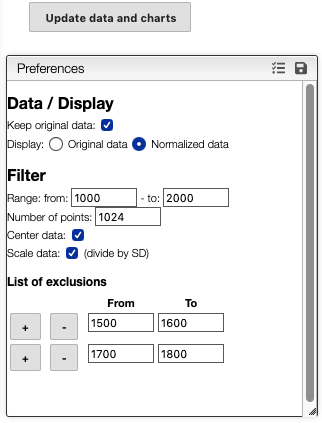
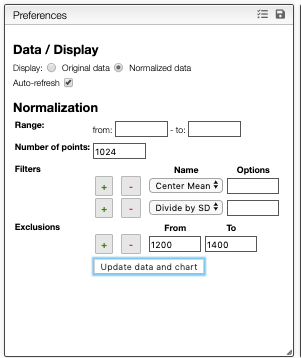
chore: update data processing documentation

diff --git a/src/book/spectra/mining/analysis/README.md b/src/book/spectra/mining/analysis/README.md
@@ -1,8 +1,9 @@
 # Create analytical report from spectra
 
-Thie program allows to define and apply analatical procedure on one or more spectra. The general principle is:
+This program allows to define and apply analytical procedure on one or more spectra. The general principle is:
 
 - select spectra
+- define parameters for spectra normalization
 - define ranges that will be associated to a variable and for which the following parameters are calculated:
   - integration
   - point for min y value
@@ -34,18 +35,18 @@ From the list of selected spectra it is still possible to:
 
 <img src="images/selection.png">
 
-In order to display the spectra you need to click on `Update data and charts`. This will recalculate the spectra based on the specified preferences:
+Depending your preferences (`auto-refresh`) you will either see directly the spectra or you need to click on `Update data and chart`. This will recalculate the spectra based on the specified normalization preferences:
 
 <img src="images/preferences.png">
 
-- `Keep original data` this is extremely memory intensive and should not be used with large number of spectra. It is however practical to setup new protocols on small dataset
-- `Display original data or normalized data` displaying the normalized data allows to see exactly what will be used for further calculation. Displaying the original data is only useful during new method developement.
-- Filter
-  - specify a range to consider (by default the full spectra)
-  - reduce the number of points
-  - preprocess the data using [Standard Normal Variate (SNV)](http://wiki.eigenvector.com/index.php?title=Advanced_Preprocessing:_Sample_Normalization#SNV_.28Standard_Normal_Variate.29). This preprocessing can be achieved by selecting the 2 options `center data`and `scale data`
-- List of exclusions
-  - specify a list of ranges that should be ignore for the processing
+- `Display original data or normalized data` displaying the normalized data allows to see exactly what will be used for further calculations. Displaying the original data is only useful during new method development.
+
+### Normalization preferences
+
+- `Range`: specify a range (X axis) to consider (by default the full spectrum)
+- `Number of points`: reduce the number of points to the specified value
+- `Filters`: define a list of filters to apply on the data. For example to apply [Standard Normal Variate (SNV)](http://wiki.eigenvector.com/index.php?title=Advanced_Preprocessing:_Sample_Normalization#SNV_.28Standard_Normal_Variate.29) you need to add the 2 filters: `center mean`and `divide by SD`
+- `Exclusions`: specify a list of ranges that should be ignore for the processing
 
 ## Load existing analytical procedure
 
@@ -59,13 +60,13 @@ The following parameters are considered when loading / saving analytical procedu
 
 - preferences
 - ranges that define variables
-- code that calculates information on each spectra
+- code that calculates information from the spectra
 - twig template that generates the report
 - a free description explaining the analysis
 
 ## Create ranges
 
-In the `Calculations` tab you are able to define range in the spectrum and a variable name for each of the range as well as a description.
+In the `Check results` tab you are able to define ranges in the spectrum and a variable name for each of the range as well as a description.
 
 <img src="images/add-ranges.gif">
 
@@ -73,76 +74,94 @@ To define a zoon press the `ALT` key and then click once on the left, once on th
 
 <img src="images/edit-ranges.gif">
 
-## Create a function to apply on each spectrum
+## Create a function to apply on the spectra
 
-To create the function click on `Results calculation`.
+To create the function click on `Edit calculations` tab.
 
-To define a formula you need to write a javascript code that will return an object.
+To define a formula you need to write a javascript code that will modify the variable `data`. This variable contains 2 properties:
 
-In the code you can use `spectrum` that contains many information about each spectrum. Among the information there is an object `spectrum.ranges` that will contain for each of the defined ranges (associated to a variable) the following information:
+- spectra: all the information related to the selected spectra
+- report: an empty object that allows to store global statistics about the analysis
 
-- from
-- to
-- label (variable name)
-- description
-- integration
-- maxPoint (highest point in the range)
+At anytime you can check the content of the variable `data` using the JSON explorer.
+
+<img src="images/data-explorer.png">
+
+A basic example would be:
+
+```js
+for (let spectrum of data.spectra) {
+  // You are free to define new properties in the empty object 'results'
+  spectrum.results.ratio =
+    (spectrum.ranges.alcohol.integration -
+      spectrum.ranges.aldehyde.integration) /
+    spectrum.ranges.aromatic.integration;
+}
+```
+
+A more advanced and complete example is presented here:
 
 ```js
 // The following line allows to have a log in the browser console.
 // To display the console: `View → Developer → JavaScript Console`
-console.log(spectrum);
+// console.log(data);
 
-// You are free to define variable that may be any combination
-// of the defined range
-let ratio =
-  (spectrum.ranges.alcohol.integration - spectrum.ranges.aldehyde.integration) /
-  spectrum.ranges.aromatic.integration;
+/*
+The data object gives access to the spectra as well as the report.
+The report is a property of data that allows to store any global
+information about the spectra.
+*/
 
-// You need to return an object. All those information will be available to create the report
-return {
-  id: spectrum.id,
-  color: spectrum.color,
-  ratio,
-  maxAlcohol: spectrum.ranges.alcohol.maxPoint.y * 100
-};
-```
-
-In order to test the script you need to click on `Generate results`. A table containing all the results will
-be displayed in the bottom. Clicking on one of the result will show detailed information about all the fields
-available to create the script.
-
-## Create a function to calculate a report based on the results
-
-To create the function click on `Report calculation`.
-
-The report calculation allows to reduce the data to a global report. As variable you have the `results` that was
-calculated previously and you need to return an object containing the report.
-
-Using this function you can calculate for example:
-
-- number of outliers
-- kinetic
-- statistics
-- etc.
-
-```js
-let report = {
-  under10: 0,
-  over10: 0,
-  min: Number.MAX_VALUE,
-  max: Number.MIN_VALUE
-};
-
-for (let result of results) {
-  if (result.maxAlcohol > report.max) report.max = result.maxAlcohol;
-  if (result.maxAlcohol < report.min) report.min = result.maxAlcohol;
-  if (result.maxAlcohol < 10) report.under10++;
-  if (result.maxAlcohol >= 10) report.over10++;
+for (let spectrum of data.spectra) {
+  // You are free to define new properties in the empty object 'results'
+  spectrum.results.ratio =
+    (spectrum.ranges.alcohol.integration -
+      spectrum.ranges.aldehyde.integration) /
+    spectrum.ranges.aromatic.integration;
 }
 
-return report;
+/*
+    You can calculate some statistics for all the spectra
+*/
+data.report.minAlcohol = Number.MAX_VALUE;
+data.report.maxAlcohol = Number.MIN_VALUE;
+for (let spectrum of data.spectra) {
+  if (spectrum.ranges.alcohol.integration > data.report.maxAlcohol) {
+    data.report.maxAlcohol = spectrum.ranges.alcohol.integration;
+  }
+  if (spectrum.ranges.alcohol.integration < data.report.minAlcohol) {
+    data.report.minAlcohol = spectrum.ranges.alcohol.integration;
+  }
+}
+
+/*
+    You can even create a chart
+*/
+let points = { x: [], y: [] };
+for (let spectrum of data.spectra) {
+  points.x.push(points.x.length + 1);
+  points.y.push(spectrum.results.ratio);
+}
+
+data.report.chart = {
+  axes: {
+    x: {
+      label: 'Sample number'
+    },
+    y: {
+      label: 'Ratio'
+    }
+  },
+  series: [
+    {
+      data: points,
+      label: 'customLabel'
+    }
+  ]
+};
 ```
+
+In order to test the script you need to click on `Generate results`. You will see the new properties that you added in the JSON explorer.
 
 ## Design a report (Twig template)
 
@@ -252,29 +271,51 @@ Example:
     <tr>
       <th>Reference</th>
       <th>Filename</th>
-      <th>Integration</th>
+      <th>Raio</th>
     </tr>
-    {% for result in results %}
+    {% for spectrum in data.spectra %}
     <tr>
-      <td>{{ result.spectrum.toc.reference }}</td>
+      <td>{{ spectrum.toc.reference }}</td>
       <td>
-        {{ result.spectrum.jcamp.filename|replace({"spectra/": "", ".jdx":"",
+        {{ spectrum.jcamp.filename|replace({"spectra/ir/": "", ".jdx":"",
         ".JDX":""}) }}
       </td>
       <td>
-        {% if result.maxAlcohol<10 %}
+        {% if spectrum.results.ratio<1 %}
         <span style="color: red">
-          {{ result.maxAlcohol|number_format(2) }}
+          {{ spectrum.results.ratio|number_format(2) }}
         </span>
         {% else %}
         <span style="color: green">
-          {{ result.maxAlcohol|number_format(2) }}
+          {{ spectrum.results.ratio|number_format(2) }}
         </span>
         {% endif %}
       </td>
     </tr>
     {% endfor %}
   </table>
+
+  <h1>
+    Global report
+  </h1>
+  <table>
+    <tr>
+      <th>Over 10</th>
+      <td>{{data.report.over10}}</td>
+    </tr>
+    <tr>
+      <th>Min alcohol</th>
+      <td>{{data.report.minAlcohol|number_format(2)}}</td>
+    </tr>
+    <tr>
+      <th>Max alcohol</th>
+      <td>{{data.report.maxAlcohol|number_format(2)}}</td>
+    </tr>
+  </table>
+
+  <div style="text-align: center; width: 100%; height: 300px">
+    {{rendertypeBlock(data.report.chart,'chart')}}
+  </div>
 </div>
 ```
 
